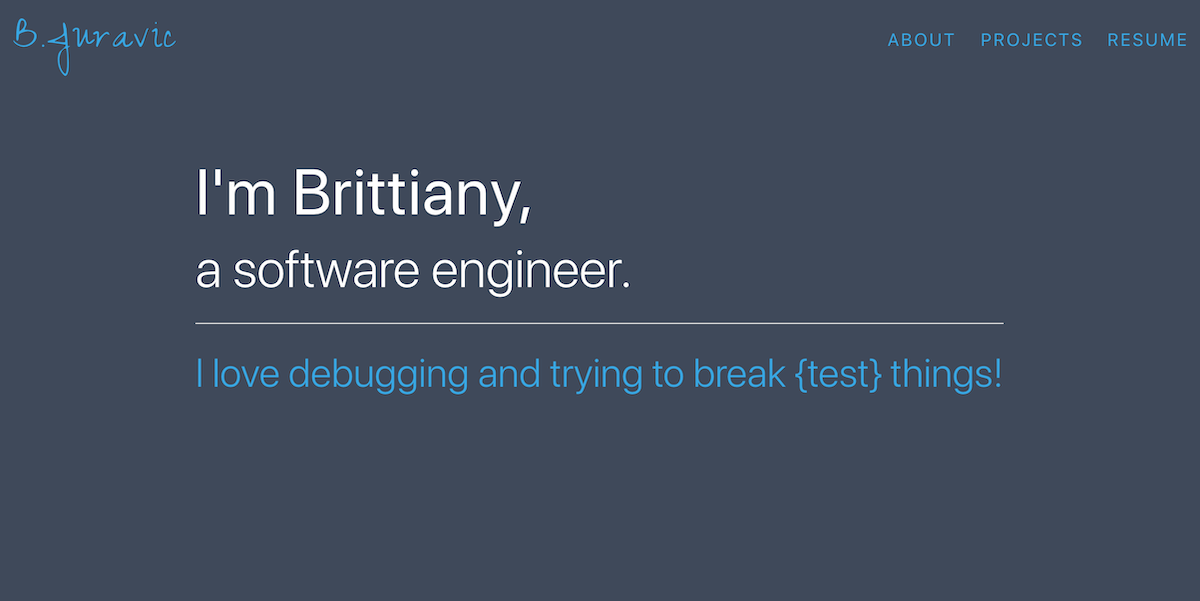
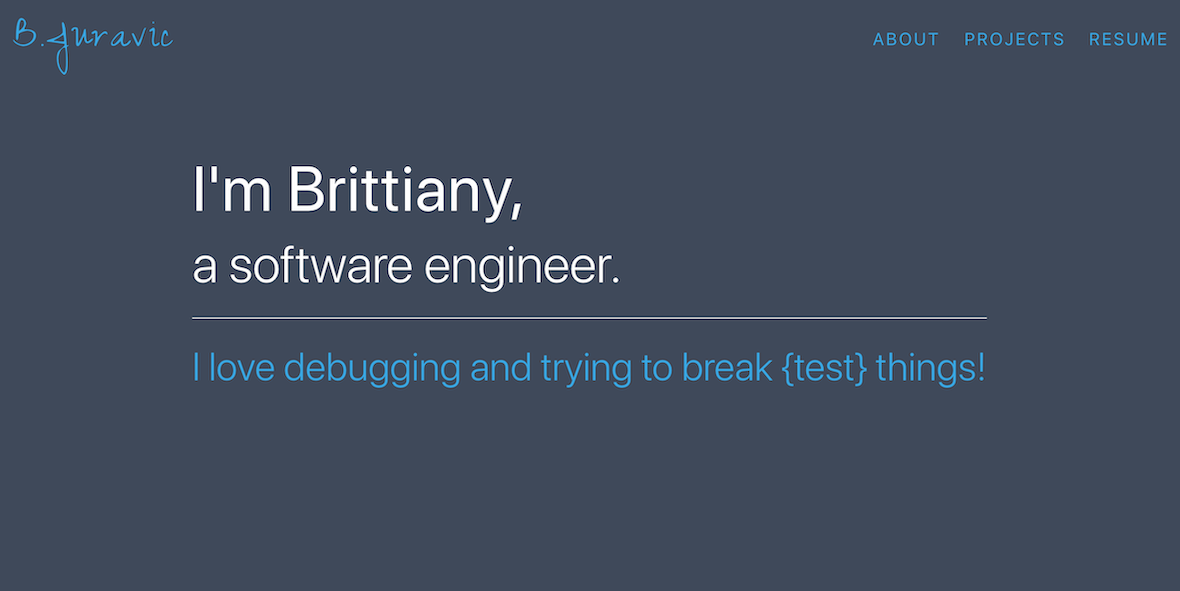
re-sizing home page image and removing meta description

diff --git a/public/index.html b/public/index.html
@@ -6,10 +6,6 @@
     <meta name="viewport" content="width=device-width, initial-scale=1" />
     <meta name="theme-color" content="#000000" />
     <meta
-      name="description"
-      content="Web site created using create-react-app"
-    />
-    <meta
       name="image"
       property="og:image"
       content="%PUBLIC_URL%/images/bmj-home.png"
